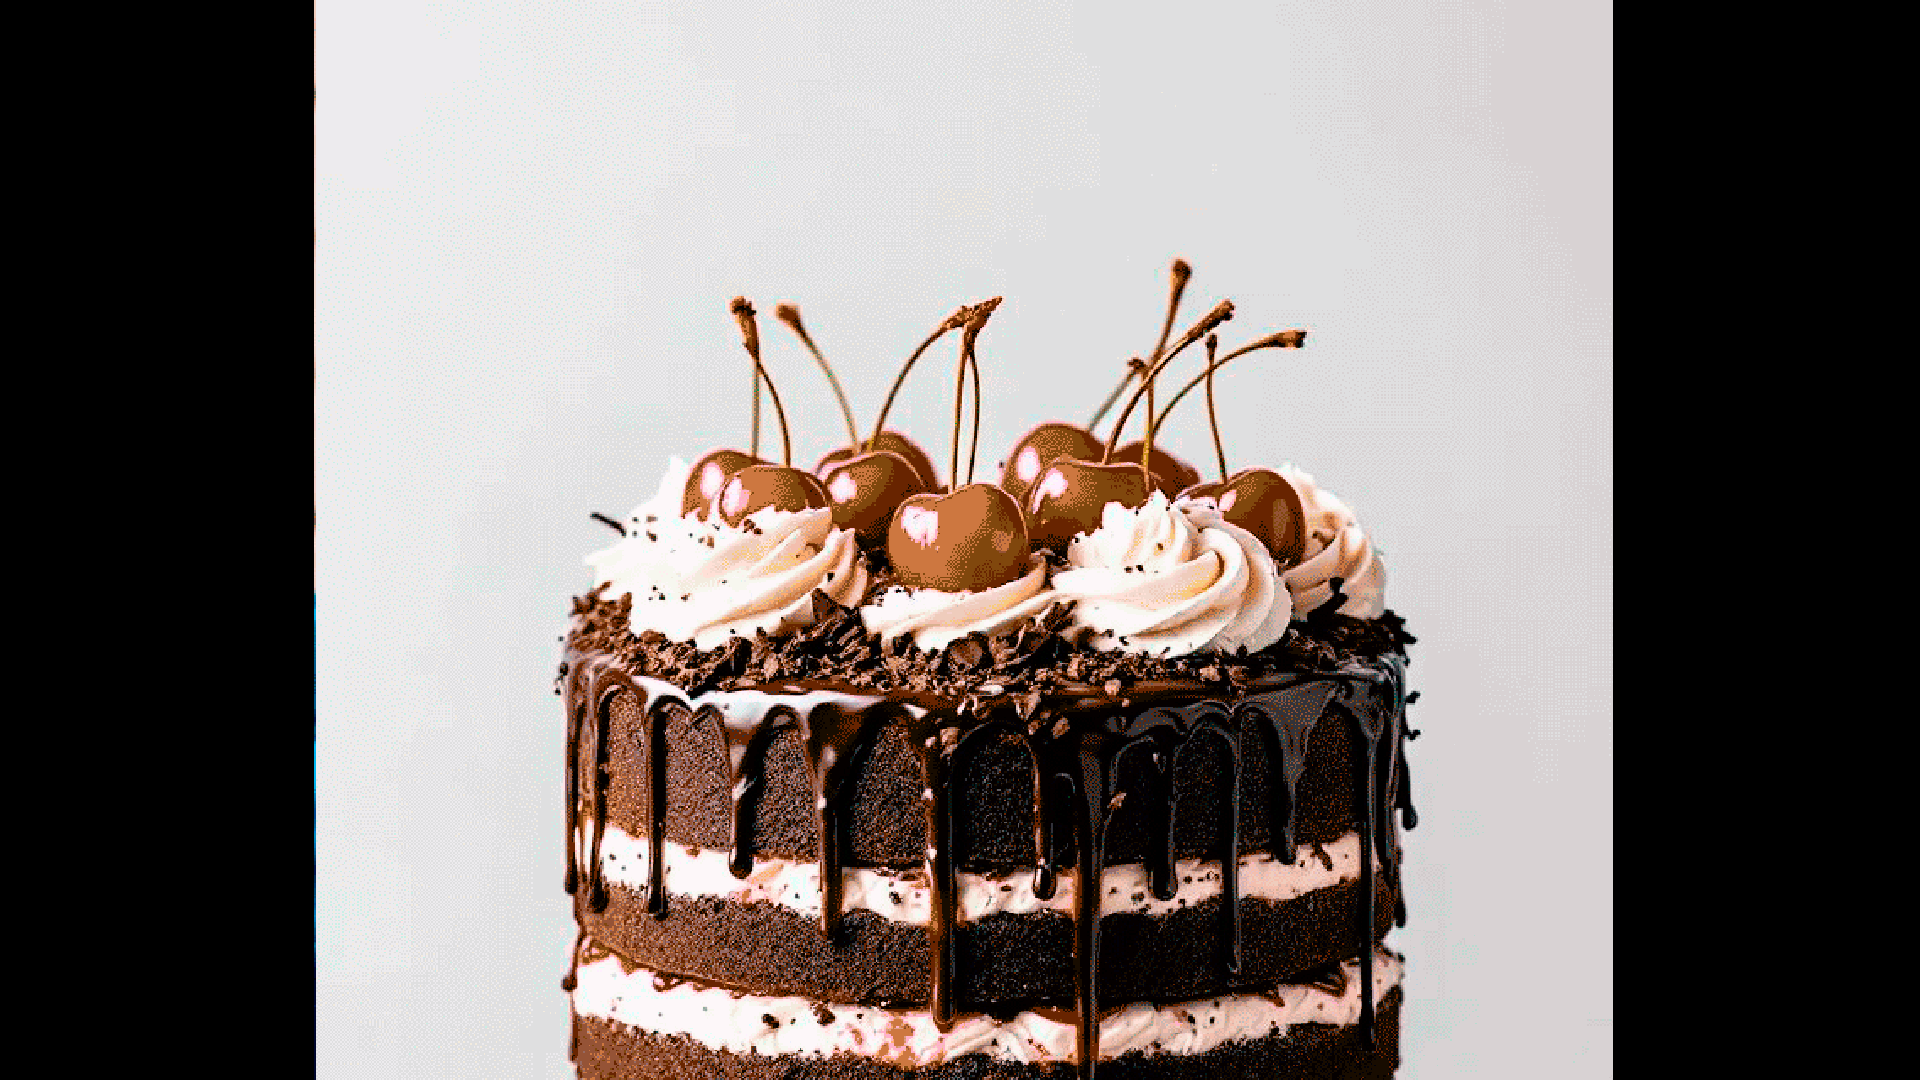
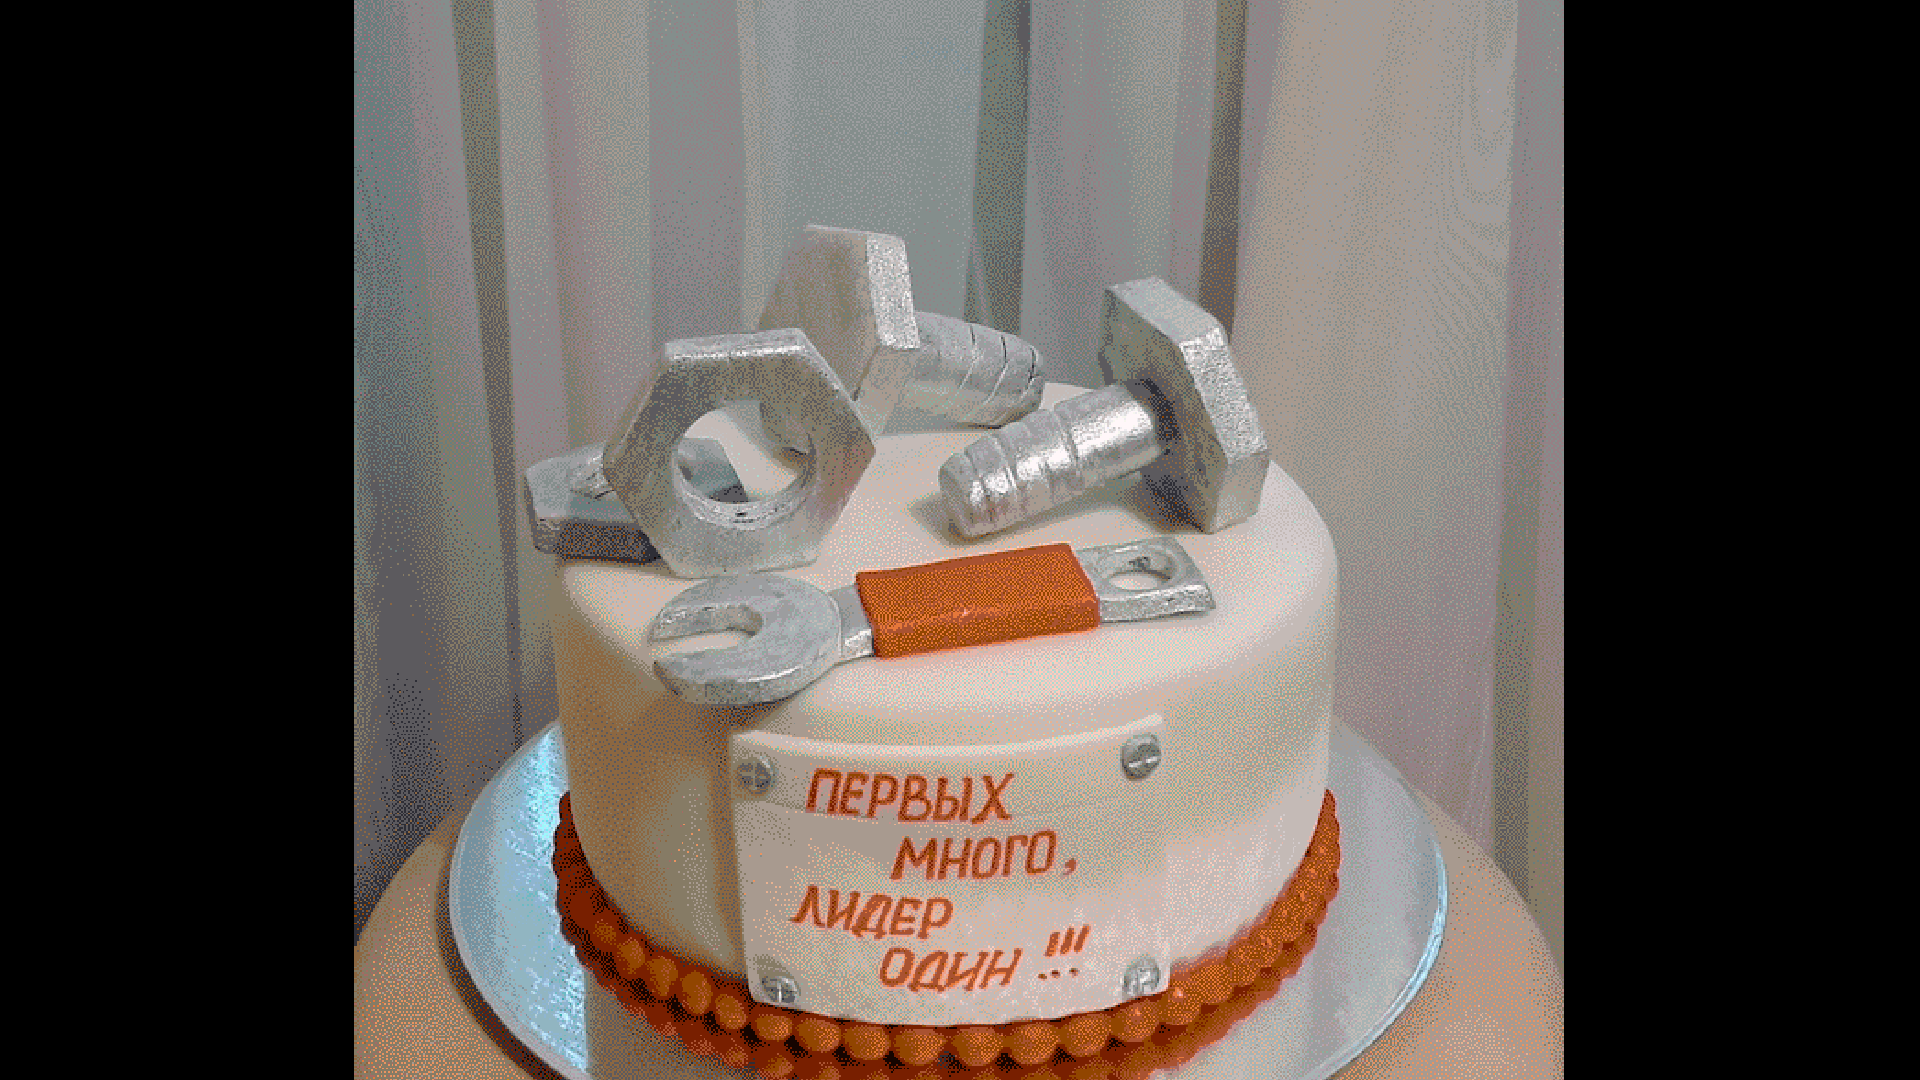
add beneto-tort

diff --git a/config/features.ts b/config/features.ts
@@ -9,5 +9,5 @@ export const FEATURES = {
    * true = видео показывается
    * false = видео не показывается, сразу основное приложение
    */
-  SHOW_INTRO_VIDEO: true,
+  SHOW_INTRO_VIDEO: false,
 } as const;
